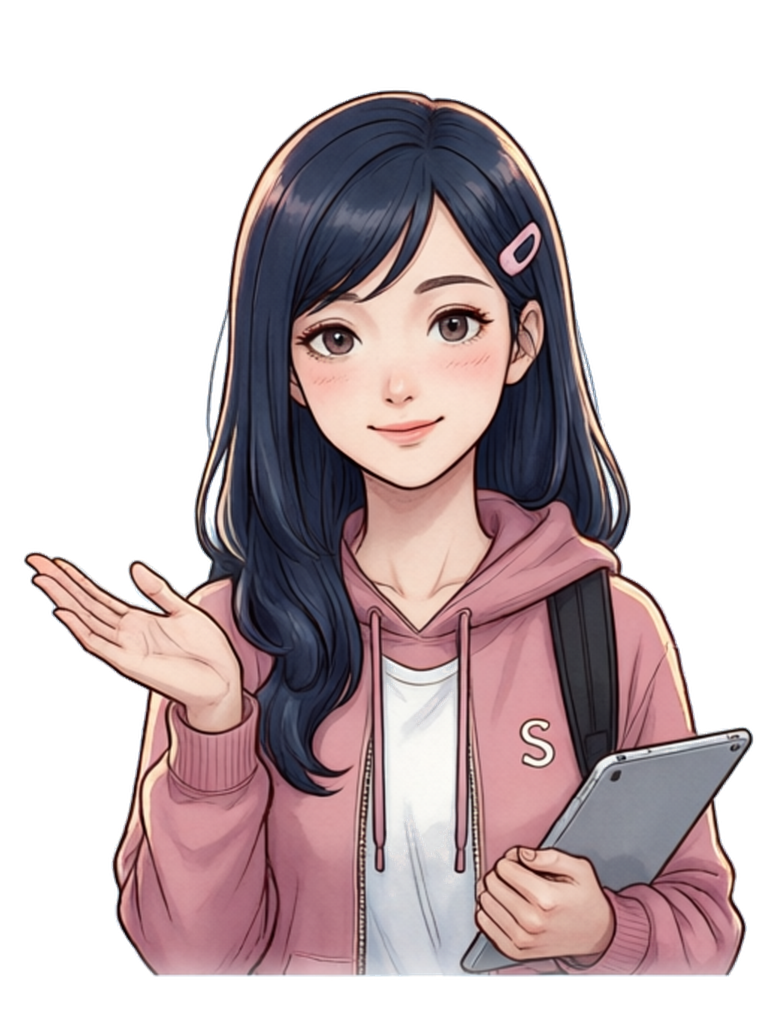
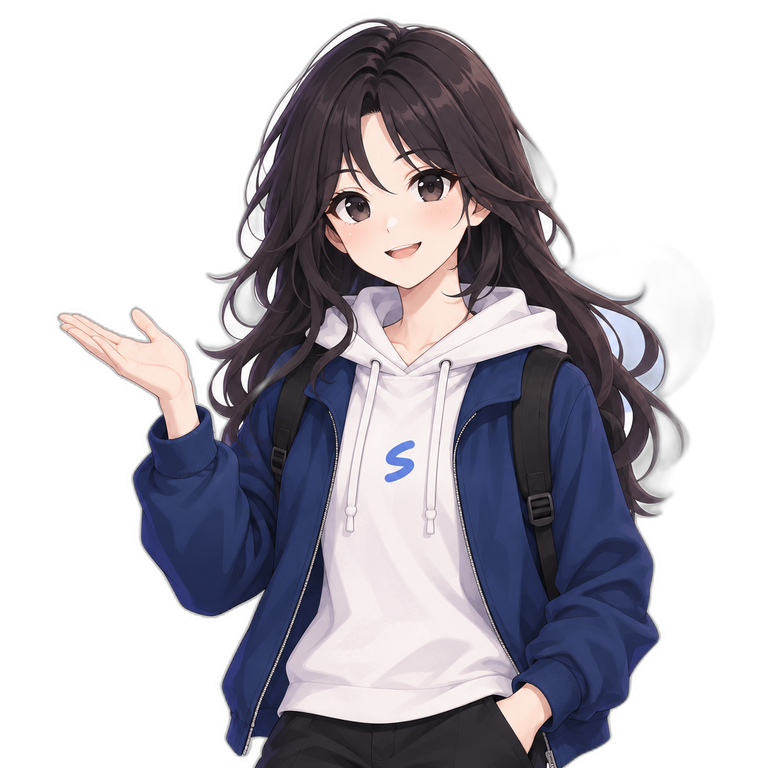
feat: maskot cewek pose main desain baru
girl-main ikut ke desain seragam (jaket biru, hoodie putih ber-S, ransel,
satu tangan terbuka) supaya hero landing cewek tidak lagi pakai hoodie pink.
Canvas jadi 768x768, sama seperti boy-main, jadi geometri hero-nya identik.

mascot_cutout.py: aset yang sudah transparan tidak lagi diflood ulang.
Sumber dengan >5% piksel alpha=0 dianggap sudah dipotong dan cuma dirapikan
(interior dengan alpha>=250 dibuat penuh, RGB di bawah transparansi dinolkan),
dan resize sekarang hanya memperkecil — tidak pernah memperbesar — supaya
sumber 768px tidak di-upscale jadi 1024px.

diff --git a/src/components/Mascot.tsx b/src/components/Mascot.tsx
@@ -63,8 +63,8 @@ export const MASCOT_ASSETS: Record<
     main: {
       src: '/images/sei/girl-main.png',
       width: 768,
-      height: 1024,
-      alt: 'Maskot SEI cewek berhoodie pink dengan ransel, satu tangan terbuka dan satu tangan memegang tablet.',
+      height: 768,
+      alt: 'Maskot SEI cewek berjaket biru dan hoodie putih, menyapa dengan satu tangan terbuka.',
     },
     welcome: {
       src: '/images/sei/girl-welcome.png',

diff --git a/scripts/mascot_cutout.py b/scripts/mascot_cutout.py
@@ -15,9 +15,13 @@ defined as *pure white reachable from the top/left/right edges*:
 Usage:
     python3 scripts/mascot_cutout.py <input.png> <girl|boy>-<pose>.png
 
-Output always lands in public/images/sei/ at 1024x1024, matching the rest of
-the set. Update the width/height/alt entries in src/components/Mascot.tsx
-afterwards if the canvas size or the pose changed.
+Sources that already carry transparency are detected and passed through as-is
+apart from tidying, so a pre-cut export does not get flooded again.
+
+Output always lands in public/images/sei/, downscaled to at most 1024px and
+never upscaled, matching the rest of the set. Update the width/height/alt
+entries in src/components/Mascot.tsx afterwards if the canvas size or the pose
+changed.
 """
 
 import sys
@@ -32,7 +36,35 @@ OUT_DIR = Path("public/images/sei")
 PURE_WHITE = 246   # a pixel counts as background only if every channel is this bright
 FEATHER = 3        # ring width (px) that fades out at the edge of the figure
 RAMP_SPAN = 80.0   # whiteness range mapped across alpha 0..255
+SOLID_ALPHA = 250  # near-opaque source pixels are snapped to fully solid
 SIZE = 1024
+
+
+def finish(rgba: np.ndarray) -> Image.Image:
+    """Downscale to the shared canvas without ever upscaling, then clean up."""
+    image = Image.fromarray(rgba.astype(np.uint8), "RGBA")
+    if max(image.size) > SIZE:
+        scale = SIZE / max(image.size)
+        image = image.resize(
+            (round(image.width * scale), round(image.height * scale)), Image.LANCZOS
+        )
+
+    pixels = np.asarray(image).copy()
+    pixels[pixels[:, :, 3] == 0, :3] = 0  # no colour stored under full transparency
+    return Image.fromarray(pixels, "RGBA")
+
+
+def already_cut(source: Path) -> bool:
+    """True when the export ships with real transparency instead of a white box."""
+    alpha = np.asarray(Image.open(source).convert("RGBA"))[:, :, 3]
+    return (alpha == 0).mean() > 0.05
+
+
+def keep_existing_alpha(source: Path) -> Image.Image:
+    """Tidy a pre-cut export: solidify the near-opaque interior, keep the edge."""
+    arr = np.asarray(Image.open(source).convert("RGBA")).astype(np.float32)
+    arr[:, :, 3] = np.where(arr[:, :, 3] >= SOLID_ALPHA, 255.0, arr[:, :, 3])
+    return finish(arr)
 
 
 def cut(source: Path) -> Image.Image:
@@ -67,11 +99,7 @@ def cut(source: Path) -> Image.Image:
         )
 
     rgba = np.dstack([colour, alpha]).astype(np.uint8)
-    image = Image.fromarray(rgba, "RGBA").resize((SIZE, SIZE), Image.LANCZOS)
-
-    pixels = np.asarray(image).copy()
-    pixels[pixels[:, :, 3] == 0, :3] = 0  # no colour stored under full transparency
-    return Image.fromarray(pixels, "RGBA")
+    return finish(rgba)
 
 
 def main(argv: list[str]) -> int:
@@ -88,7 +116,7 @@ def main(argv: list[str]) -> int:
         print(f"unexpected pose filename: {name.name}", file=sys.stderr)
         return 1
 
-    image = cut(source)
+    image = keep_existing_alpha(source) if already_cut(source) else cut(source)
     target = OUT_DIR / name.name
     image.save(target, optimize=True)
 
